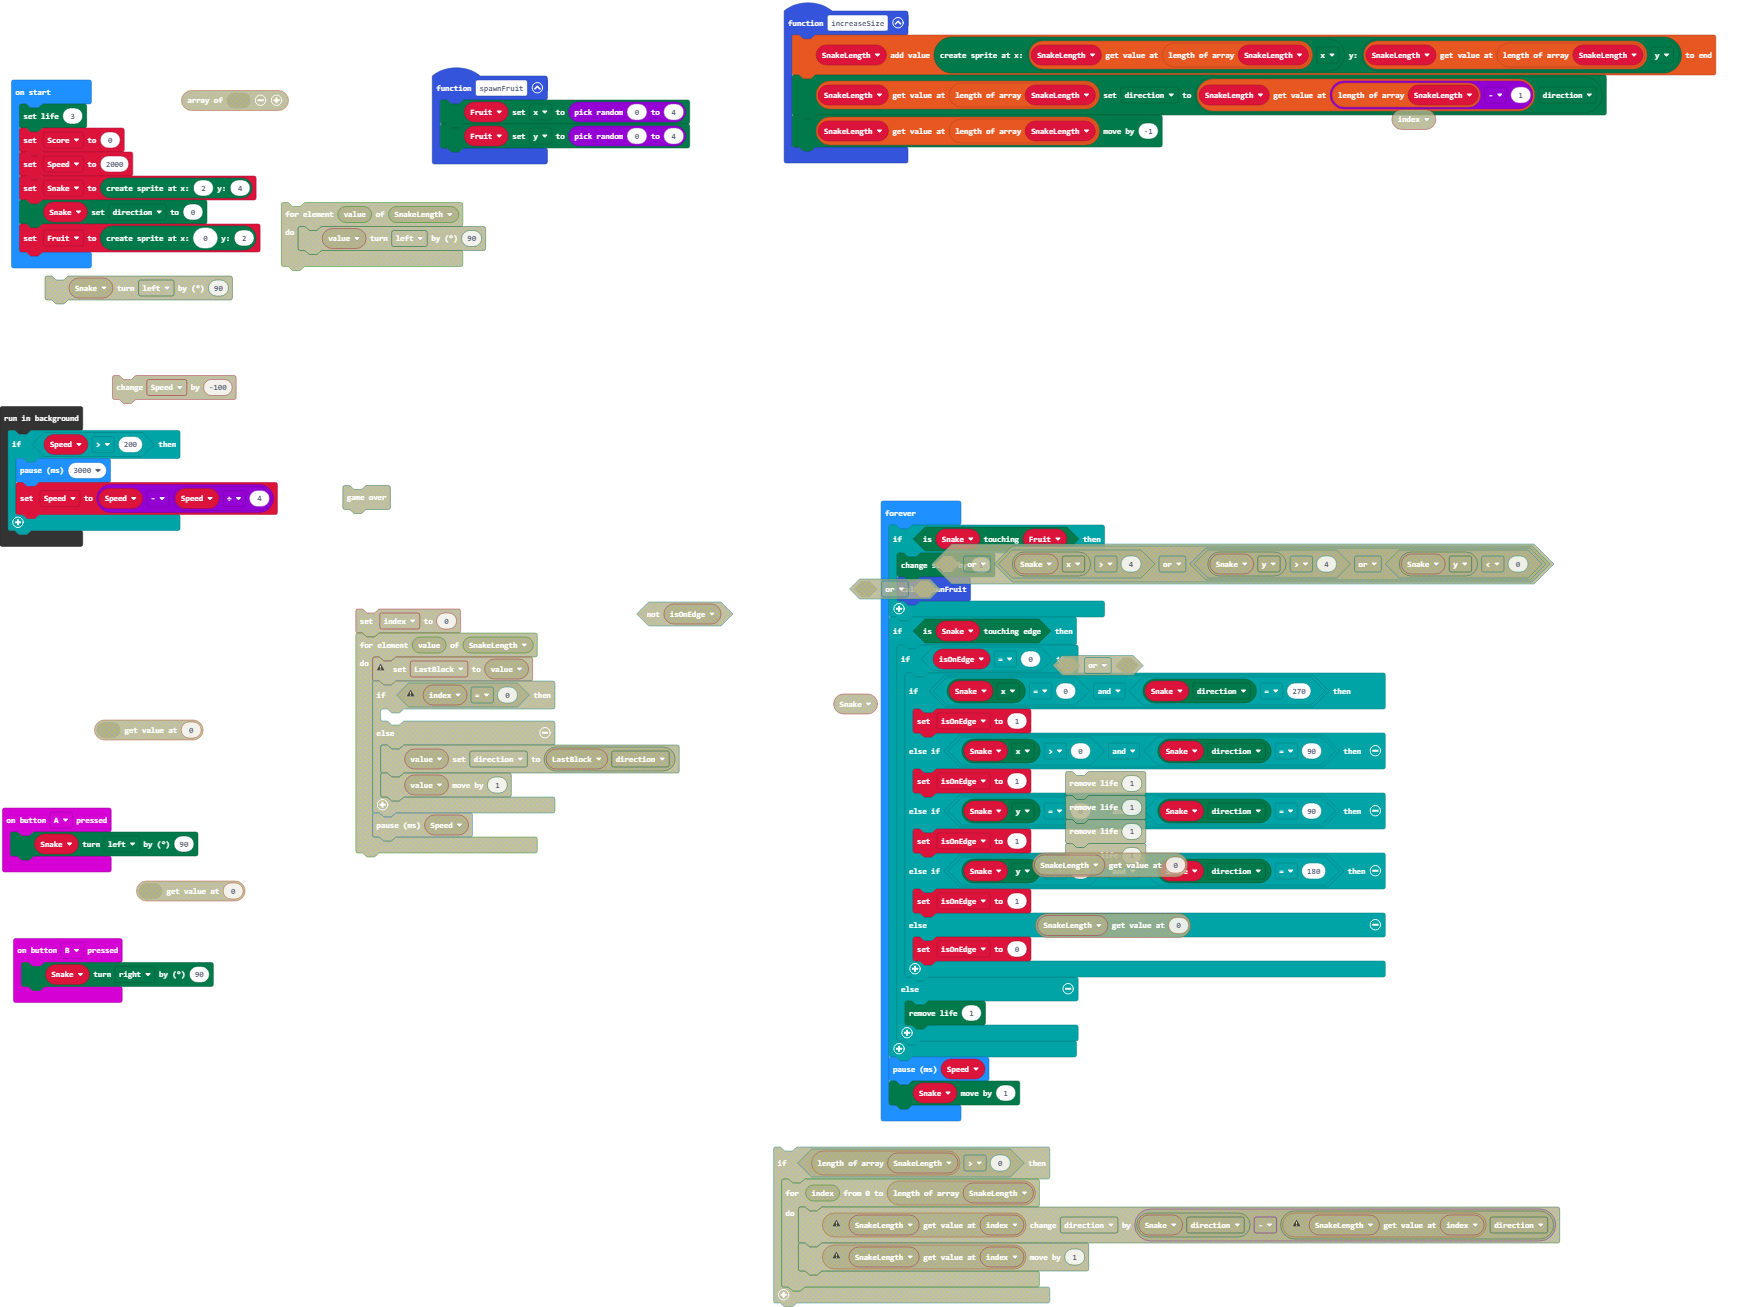
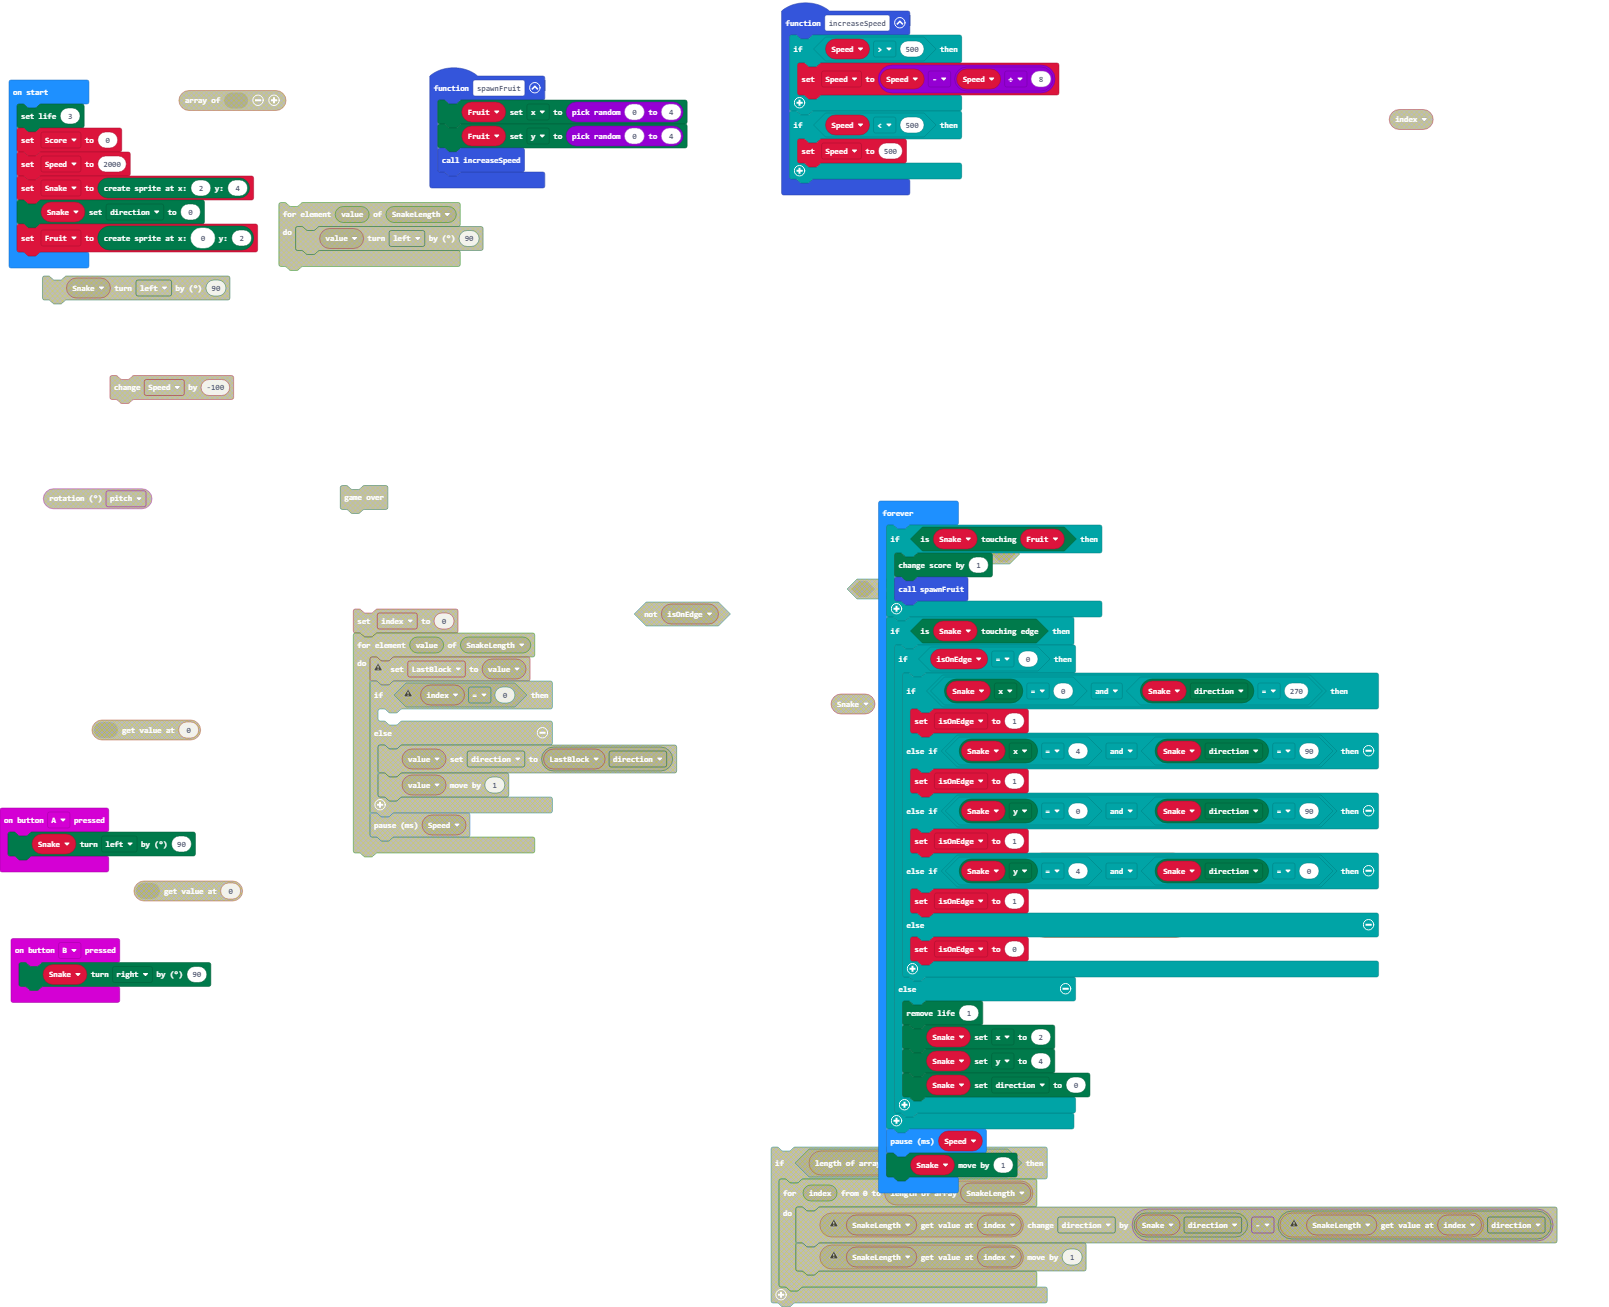
Update main.blocks, main.ts

diff --git a/main.ts b/main.ts
@@ -1,25 +1,29 @@
 function spawnFruit () {
     Fruit.set(LedSpriteProperty.X, randint(0, 4))
     Fruit.set(LedSpriteProperty.Y, randint(0, 4))
+    increaseSpeed()
 }
 input.onButtonPressed(Button.A, function () {
     Snake.turn(Direction.Left, 90)
 })
-function increaseSize () {
-    let SnakeLength: game.LedSprite[] = []
-    SnakeLength.push(game.createSprite(SnakeLength[SnakeLength.length].get(LedSpriteProperty.X), SnakeLength[SnakeLength.length].get(LedSpriteProperty.Y)))
-    SnakeLength[SnakeLength.length].set(LedSpriteProperty.Direction, SnakeLength[SnakeLength.length - 1].get(LedSpriteProperty.Direction))
-    SnakeLength[SnakeLength.length].move(-1)
-}
 input.onButtonPressed(Button.B, function () {
     Snake.turn(Direction.Right, 90)
 })
+function increaseSpeed () {
+    if (Speed > 500) {
+        Speed = Speed - Speed / 8
+    }
+    if (Speed < 500) {
+        Speed = 500
+    }
+}
 let isOnEdge = 0
 let Fruit: game.LedSprite = null
 let Snake: game.LedSprite = null
+let Speed = 0
 game.setLife(3)
 let Score = 0
-let Speed = 2000
+Speed = 2000
 Snake = game.createSprite(2, 4)
 Snake.set(LedSpriteProperty.Direction, 0)
 Fruit = game.createSprite(0, 2)
@@ -32,25 +36,22 @@ basic.forever(function () {
         if (isOnEdge == 0) {
             if (Snake.get(LedSpriteProperty.X) == 0 && Snake.get(LedSpriteProperty.Direction) == 270) {
                 isOnEdge = 1
-            } else if (Snake.get(LedSpriteProperty.X) > 0 && Snake.get(LedSpriteProperty.Direction) == 90) {
+            } else if (Snake.get(LedSpriteProperty.X) == 4 && Snake.get(LedSpriteProperty.Direction) == 90) {
                 isOnEdge = 1
             } else if (Snake.get(LedSpriteProperty.Y) == 0 && Snake.get(LedSpriteProperty.Direction) == 90) {
                 isOnEdge = 1
-            } else if (Snake.get(LedSpriteProperty.Y) == 4 && Snake.get(LedSpriteProperty.Direction) == 180) {
+            } else if (Snake.get(LedSpriteProperty.Y) == 4 && Snake.get(LedSpriteProperty.Direction) == 0) {
                 isOnEdge = 1
             } else {
                 isOnEdge = 0
             }
         } else {
             game.removeLife(1)
+            Snake.set(LedSpriteProperty.X, 2)
+            Snake.set(LedSpriteProperty.Y, 4)
+            Snake.set(LedSpriteProperty.Direction, 0)
         }
     }
     basic.pause(Speed)
     Snake.move(1)
-})
-control.inBackground(function () {
-    if (Speed > 200) {
-        basic.pause(3000)
-        Speed = Speed - Speed / 4
-    }
 })
